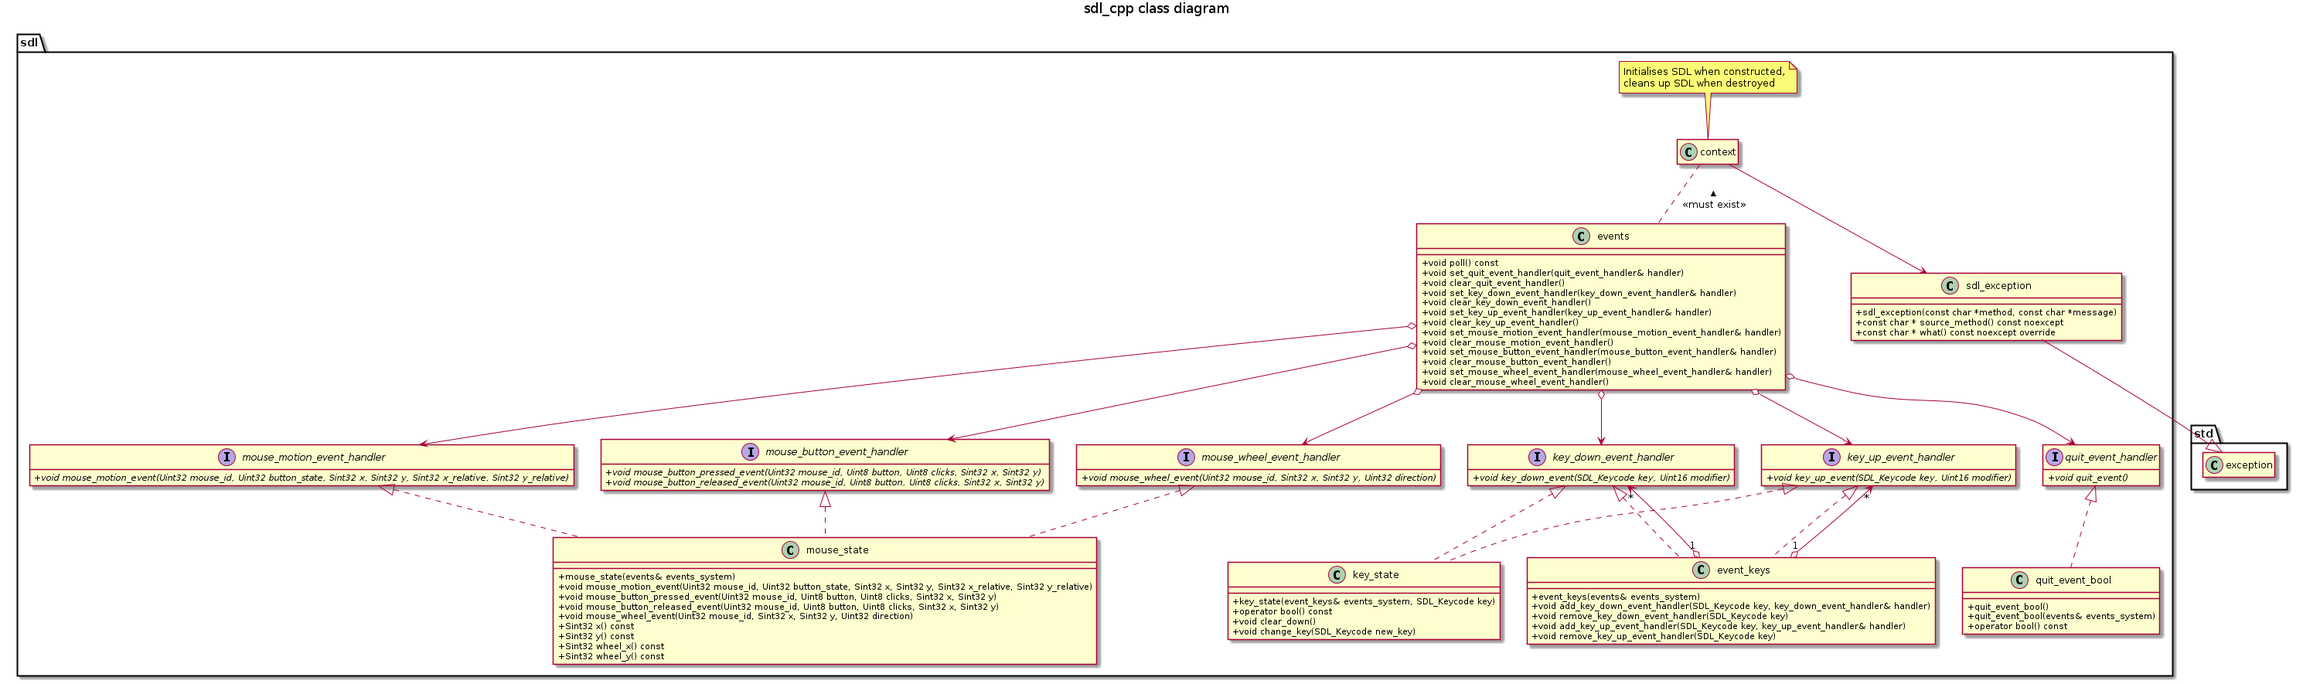
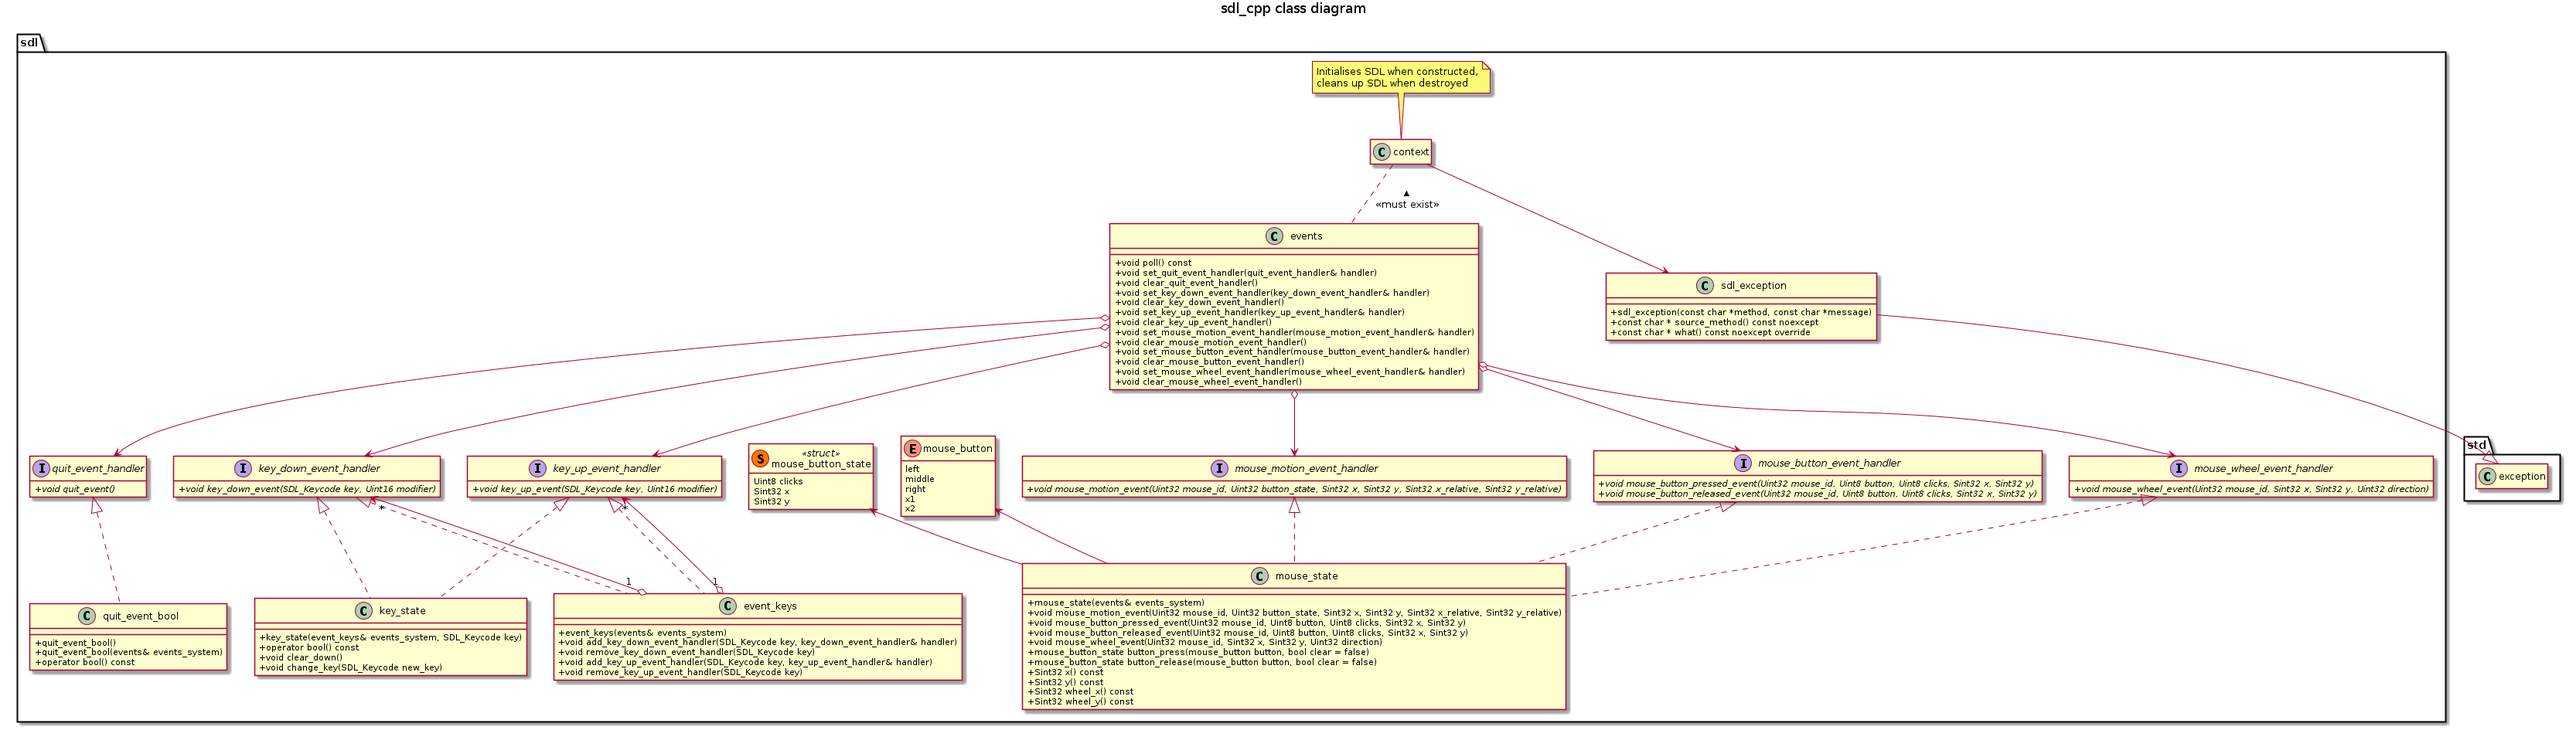
Updated mouse state to handle button clicks

diff --git a/include/sdl_cpp_mouse_state.h b/include/sdl_cpp_mouse_state.h
@@ -3,8 +3,26 @@
 
 #include "sdl_cpp_events.h"
 
+#include <map>
+
 namespace sdl
 {
+    enum class mouse_button
+    {
+        left,
+        middle,
+        right,
+        x1,
+        x2
+    };
+
+    struct mouse_button_state
+    {
+        Uint8 clicks{0};
+        Sint32 x{0};
+        Sint32 y{0};
+    };
+
     class mouse_state : public mouse_motion_event_handler, public mouse_button_event_handler, public mouse_wheel_event_handler
     {
     private:
@@ -13,6 +31,8 @@ namespace sdl
         Sint32 y_coordinate{0};
         Sint32 x_wheel{0};
         Sint32 y_wheel{0};
+        std::map<Uint8, mouse_button_state> button_state_pressed;
+        std::map<Uint8, mouse_button_state> button_state_released;
     public:
         explicit mouse_state(events& events_system);
         ~mouse_state() override;
@@ -29,11 +49,13 @@ namespace sdl
         virtual void mouse_wheel_event(Uint32 mouse_id, Sint32 x, Sint32 y,
                                        Uint32 direction) override;
 
+        mouse_button_state button_press(mouse_button button, bool clear = false);
+        mouse_button_state button_release(mouse_button button, bool clear = false);
+
         Sint32 x() const { return x_coordinate; }
         Sint32 y() const { return y_coordinate; }
         Sint32 wheel_x() const { return x_wheel; }
         Sint32 wheel_y() const { return y_wheel; }
-
     };
 }
 
@@ -46,11 +68,32 @@ namespace sdl {
         + void mouse_button_pressed_event(Uint32 mouse_id, Uint8 button, Uint8 clicks, Sint32 x, Sint32 y)
         + void mouse_button_released_event(Uint32 mouse_id, Uint8 button, Uint8 clicks, Sint32 x, Sint32 y)
         + void mouse_wheel_event(Uint32 mouse_id, Sint32 x, Sint32 y, Uint32 direction)
+        + mouse_button_state button_press(mouse_button button, bool clear = false)
+        + mouse_button_state button_release(mouse_button button, bool clear = false)
         + Sint32 x() const
         + Sint32 y() const
         + Sint32 wheel_x() const
         + Sint32 wheel_y() const
     }
+
+    enum mouse_button {
+        left
+        middle
+        right
+        x1
+        x2
+    }
+    hide mouse_button methods
+
+    class mouse_button_state << (S,#FF7700) struct >> {
+        Uint8 clicks
+        Sint32 x
+        Sint32 y
+    }
+    hide mouse_button_state methods
+
+    mouse_button <-- mouse_state
+    mouse_button_state <-- mouse_state
 
     mouse_motion_event_handler <|.. mouse_state
     mouse_button_event_handler <|.. mouse_state

diff --git a/src/sdl_cpp_mouse_state.cpp b/src/sdl_cpp_mouse_state.cpp
@@ -20,6 +20,10 @@ namespace sdl
     void mouse_state::mouse_motion_event(Uint32 mouse_id, Uint32 button_state, Sint32 x, Sint32 y,
                        Sint32 x_relative, Sint32 y_relative)
     {
+        (void)mouse_id;
+        (void)button_state;
+        (void)x_relative;
+        (void)y_relative;
         x_coordinate = x;
         y_coordinate = y;
     }
@@ -27,19 +31,65 @@ namespace sdl
     void mouse_state::mouse_button_pressed_event(Uint32 mouse_id, Uint8 button,
                                             Uint8 clicks, Sint32 x, Sint32 y)
     {
-
+        (void)mouse_id;
+        button_state_pressed[button].clicks = clicks;
+        button_state_pressed[button].x = x;
+        button_state_pressed[button].y = y;
     }
 
     void mouse_state::mouse_button_released_event(Uint32 mouse_id, Uint8 button,
                                              Uint8 clicks, Sint32 x, Sint32 y)
     {
-
+        (void)mouse_id;
+        button_state_released[button].clicks = clicks;
+        button_state_released[button].x = x;
+        button_state_released[button].y = y;
     }
 
     void mouse_state::mouse_wheel_event(Uint32 mouse_id, Sint32 x, Sint32 y,
                                    Uint32 direction)
     {
+        (void)mouse_id;
+        (void)direction;
         x_wheel += x;
         y_wheel += y;
+    }
+
+    namespace
+    {
+        Uint8 const buttom_map[] =
+        {
+            SDL_BUTTON_LEFT,
+            SDL_BUTTON_MIDDLE,
+            SDL_BUTTON_RIGHT,
+            SDL_BUTTON_X1,
+            SDL_BUTTON_X2
+        };
+    }
+
+    mouse_button_state mouse_state::button_press(mouse_button button, bool clear)
+    {
+        auto index = buttom_map[static_cast<size_t>(button)];
+        auto button_state = button_state_pressed[index];
+
+        if(clear)
+        {
+            button_state_pressed[index] = mouse_button_state{};
+        }
+
+        return button_state;
+    }
+
+    mouse_button_state mouse_state::button_release(mouse_button button, bool clear)
+    {
+        auto index = buttom_map[static_cast<size_t>(button)];
+        auto button_state = button_state_released[index];
+
+        if(clear)
+        {
+            button_state_released[index] = mouse_button_state{};
+        }
+
+        return button_state;
     }
 }

diff --git a/test-app/main.cpp b/test-app/main.cpp
@@ -4,6 +4,7 @@
 #include <string>
 #include <algorithm>
 #include <iostream>
+#include <sstream>
 
 struct exit_code
 {
@@ -41,7 +42,7 @@ int main(int argc, char** argv)
         sdl::ttf_font_context ttf_context;
         sdl::ttf_font press_start_2p_font{application_path + "/PressStart2P-Regular.ttf", 36};
 
-        sdl::window window{"test-app", 100, 100, 640, 480};
+        sdl::window window{"test-app", 100, 100, 800, 480};
         sdl::renderer renderer{window};
         sdl::texture circleTexture{renderer, sdl::surface::create_from_image(application_path + "/circle.png")};
 
@@ -108,6 +109,20 @@ int main(int argc, char** argv)
                 std::to_string(mouse.wheel_x()) + ", " + std::to_string(mouse.wheel_y());
             sdl::texture mouse_location_texture = press_start_2p_font.create_texture(renderer, mouse_location, {0x00, 0x00, 0x00});
             renderer.copy(mouse_location_texture, 10, 10);
+
+            std::stringstream mouse_clicks;
+            mouse_clicks << static_cast<unsigned int>(mouse.button_press(sdl::mouse_button::left).clicks) << "," ;
+            mouse_clicks << mouse.button_press(sdl::mouse_button::left).x << ",";
+            mouse_clicks << mouse.button_press(sdl::mouse_button::left).y;
+            auto mouse_clicks_texture = press_start_2p_font.create_texture(renderer, mouse_clicks.str(), {0x00, 0x00, 0x00});
+            renderer.copy(mouse_clicks_texture, 10, 100);
+
+            mouse_clicks = std::stringstream();
+            mouse_clicks << static_cast<unsigned int>(mouse.button_release(sdl::mouse_button::left).clicks) << "," ;
+            mouse_clicks << mouse.button_release(sdl::mouse_button::left).x << ",";
+            mouse_clicks << mouse.button_release(sdl::mouse_button::left).y;
+            mouse_clicks_texture = press_start_2p_font.create_texture(renderer, mouse_clicks.str(), {0x00, 0x00, 0x00});
+            renderer.copy(mouse_clicks_texture, 10, 200);
 
             renderer.present();
         }
